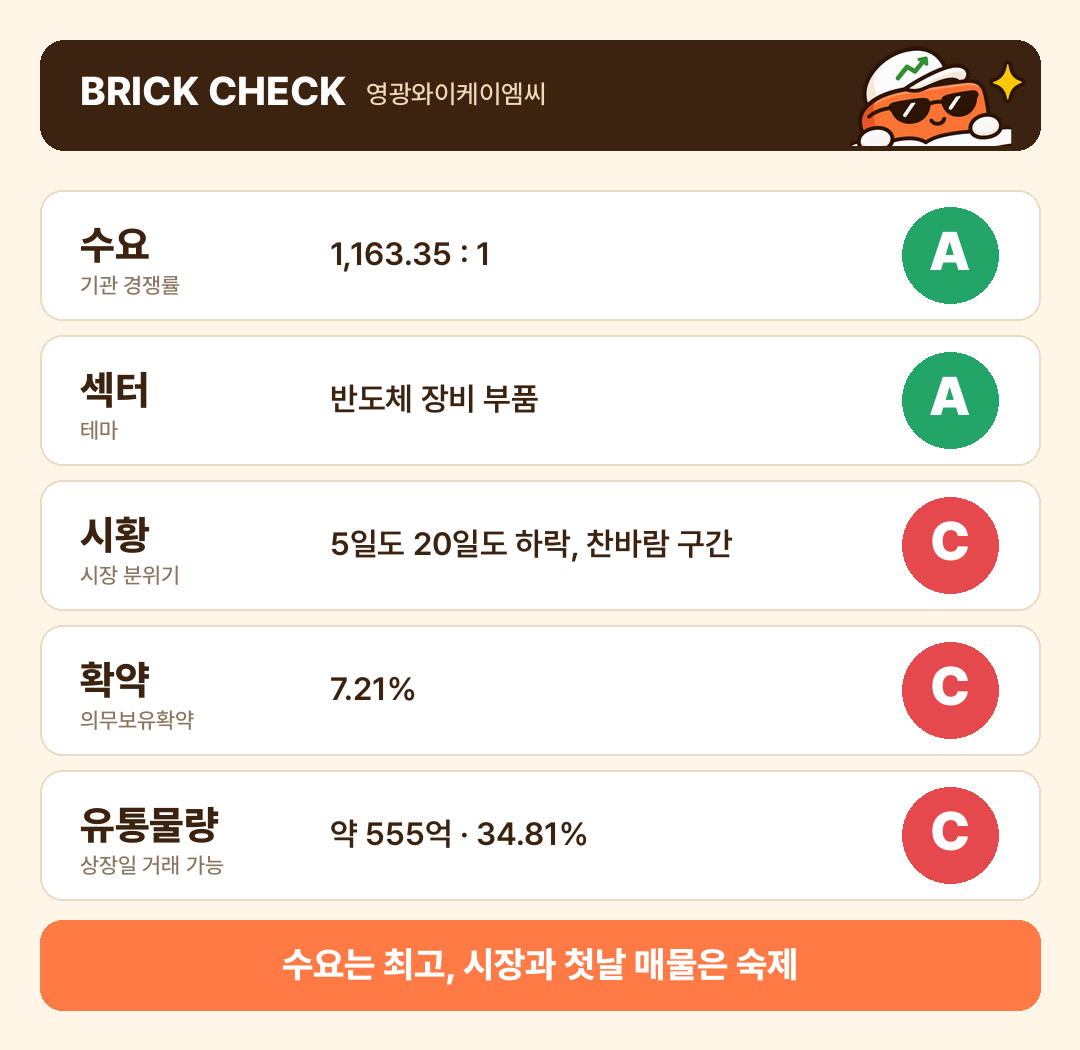
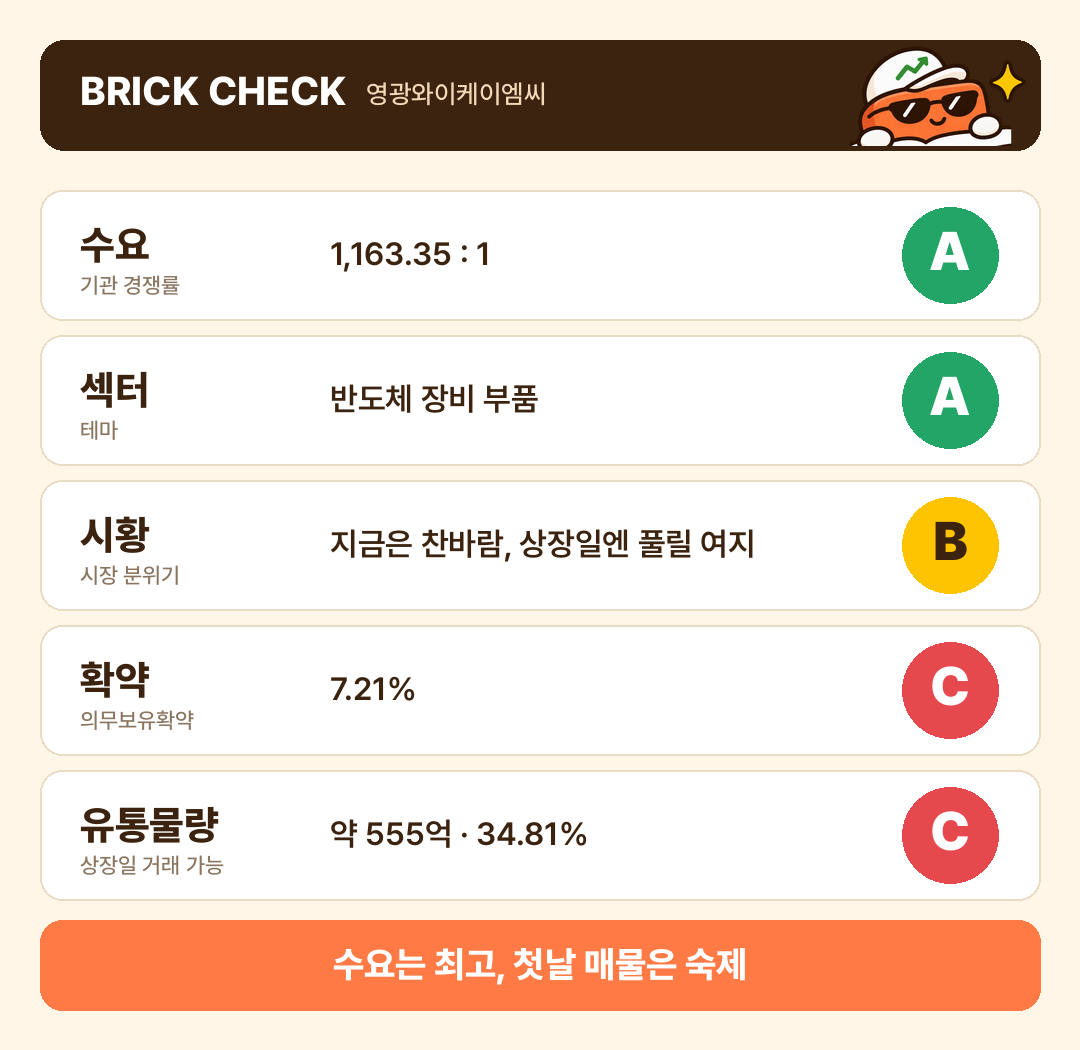
Set YKMC market grade back to B
Grade the market on whether big events clear by listing day as well as
on recent trends, and show that outlook on the card. Record the new
writing rules in the post template.

Changed region(s): [[0.2444, 0.8838, 0.7333, 0.9448], [0.3056, 0.4876, 0.7028, 0.5486], [0.825, 0.4571, 0.9472, 0.579]]

diff --git a/docs/POST_TEMPLATE.md b/docs/POST_TEMPLATE.md
@@ -31,6 +31,8 @@
 - 섹션 구성: **이미지 → 짧은 글 → 표(부가 설명) → 추가 글**. 이미지에 있는 항목은 표에서 뺀다. 같은 숫자를 표 두 개에 넣지 않는다.
 - 주변 공모주 일정은 **발행 직전 정정 공시를 다시 확인**한다. 월초 정리 글은 오래된 자료다. 일정이 밀린 종목이 없는지 최근 기사 2곳 이상으로 대조한다.
 - 시황은 하루 등락이 아니라 **코스피·코스닥 5거래일·20거래일 흐름**으로 본다. 카드에는 숫자 대신 분위기를 적고, 본문에 숫자와 최근 상장주 성적을 쓴다.
+- 시황 등급은 지금 분위기만이 아니라 **상장일까지 큰 이슈가 정리될지**도 같이 본다. 하락장이어도 큰 이슈가 지나갔으면 B가 될 수 있다(영광와이케이엠씨, 지운 판단).
+- BRICK CHECK 기준을 다시 설명하는 표는 넣지 않는다.
 - 지운이 자료를 주지 않아도 이 글 수준의 깊이를 낸다. 재무제표·기간별 확약·청약한도·고객사·수주잔고·이전 상장 시도를 DART와 기사에서 직접 찾는다.
 
 ## BRICK CHECK 등급 기준
@@ -47,6 +49,8 @@
 ## 말투
 - 짧게 끊되 어미를 섞는다(~습니다/~더라고요/~거든요/~네요/~죠). "~해요, 좋아요"가 이어지면 AI처럼 읽힌다. 한 문단 2줄 이내.
 - 대구("A는 많았지만 B는 적었어요", "A가 아니라 B") 남발 금지.
+- "~다." 짧은 문장만 잇지 말고 내용이 이어지면 쉼표와 연결어미로 붙인다.
+- 독자에게 책임을 넘기는 말("손실은 본인 몫")과 딱딱한 단서("어디까지나 회사 전망입니다")는 쓰지 않는다. 면책은 글 끝 문구로 충분하다.
 - 숫자는 반드시 해석과 함께 ("1,163대 1 → 관심은 최상위").
 - 지표 정확히(PER = 시총 ÷ 순이익). 단순 연율화는 한계를 적는다.
 
